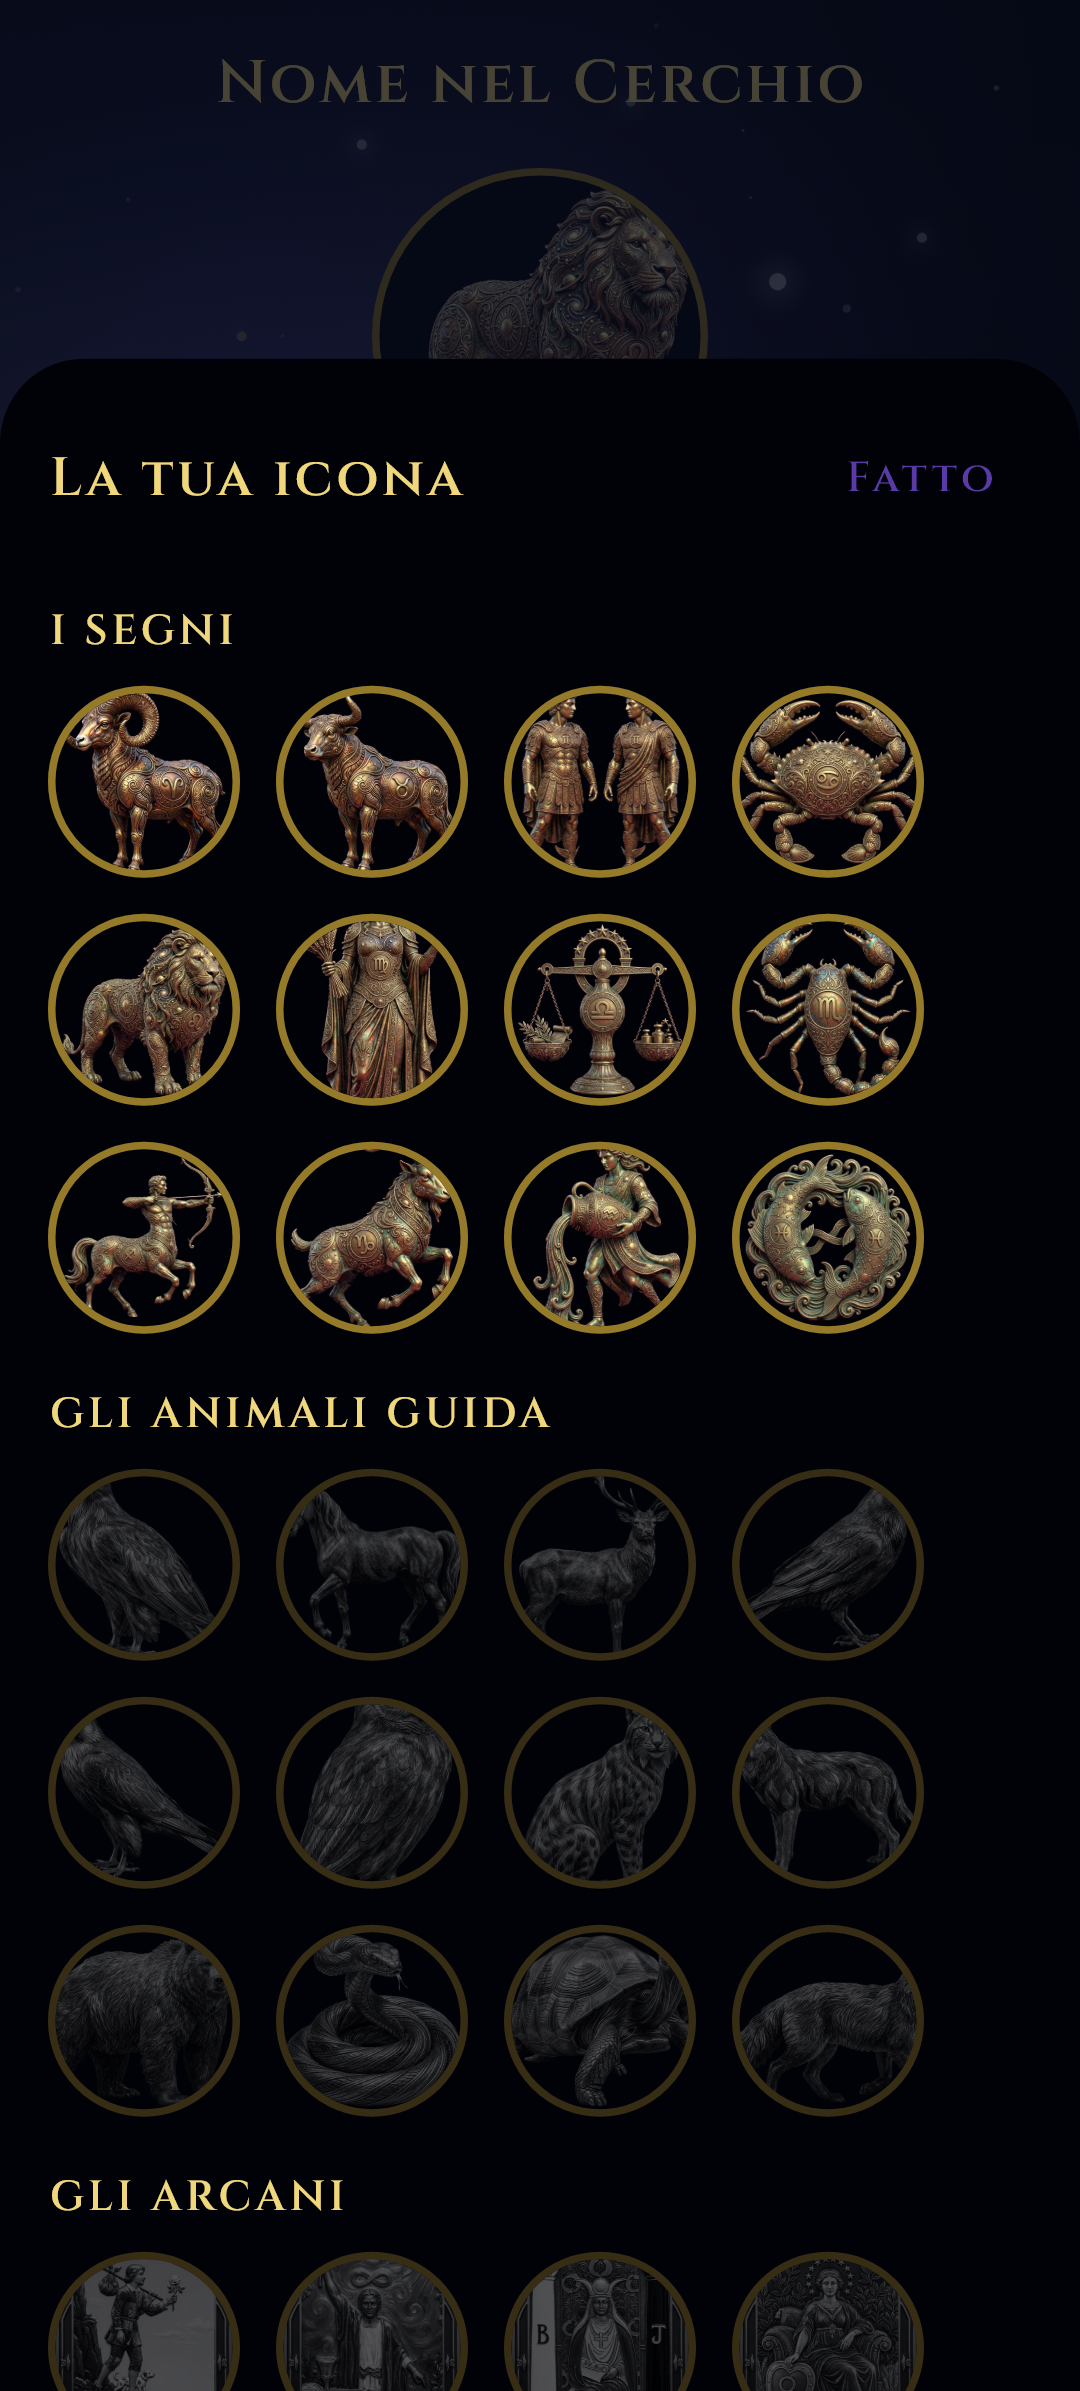
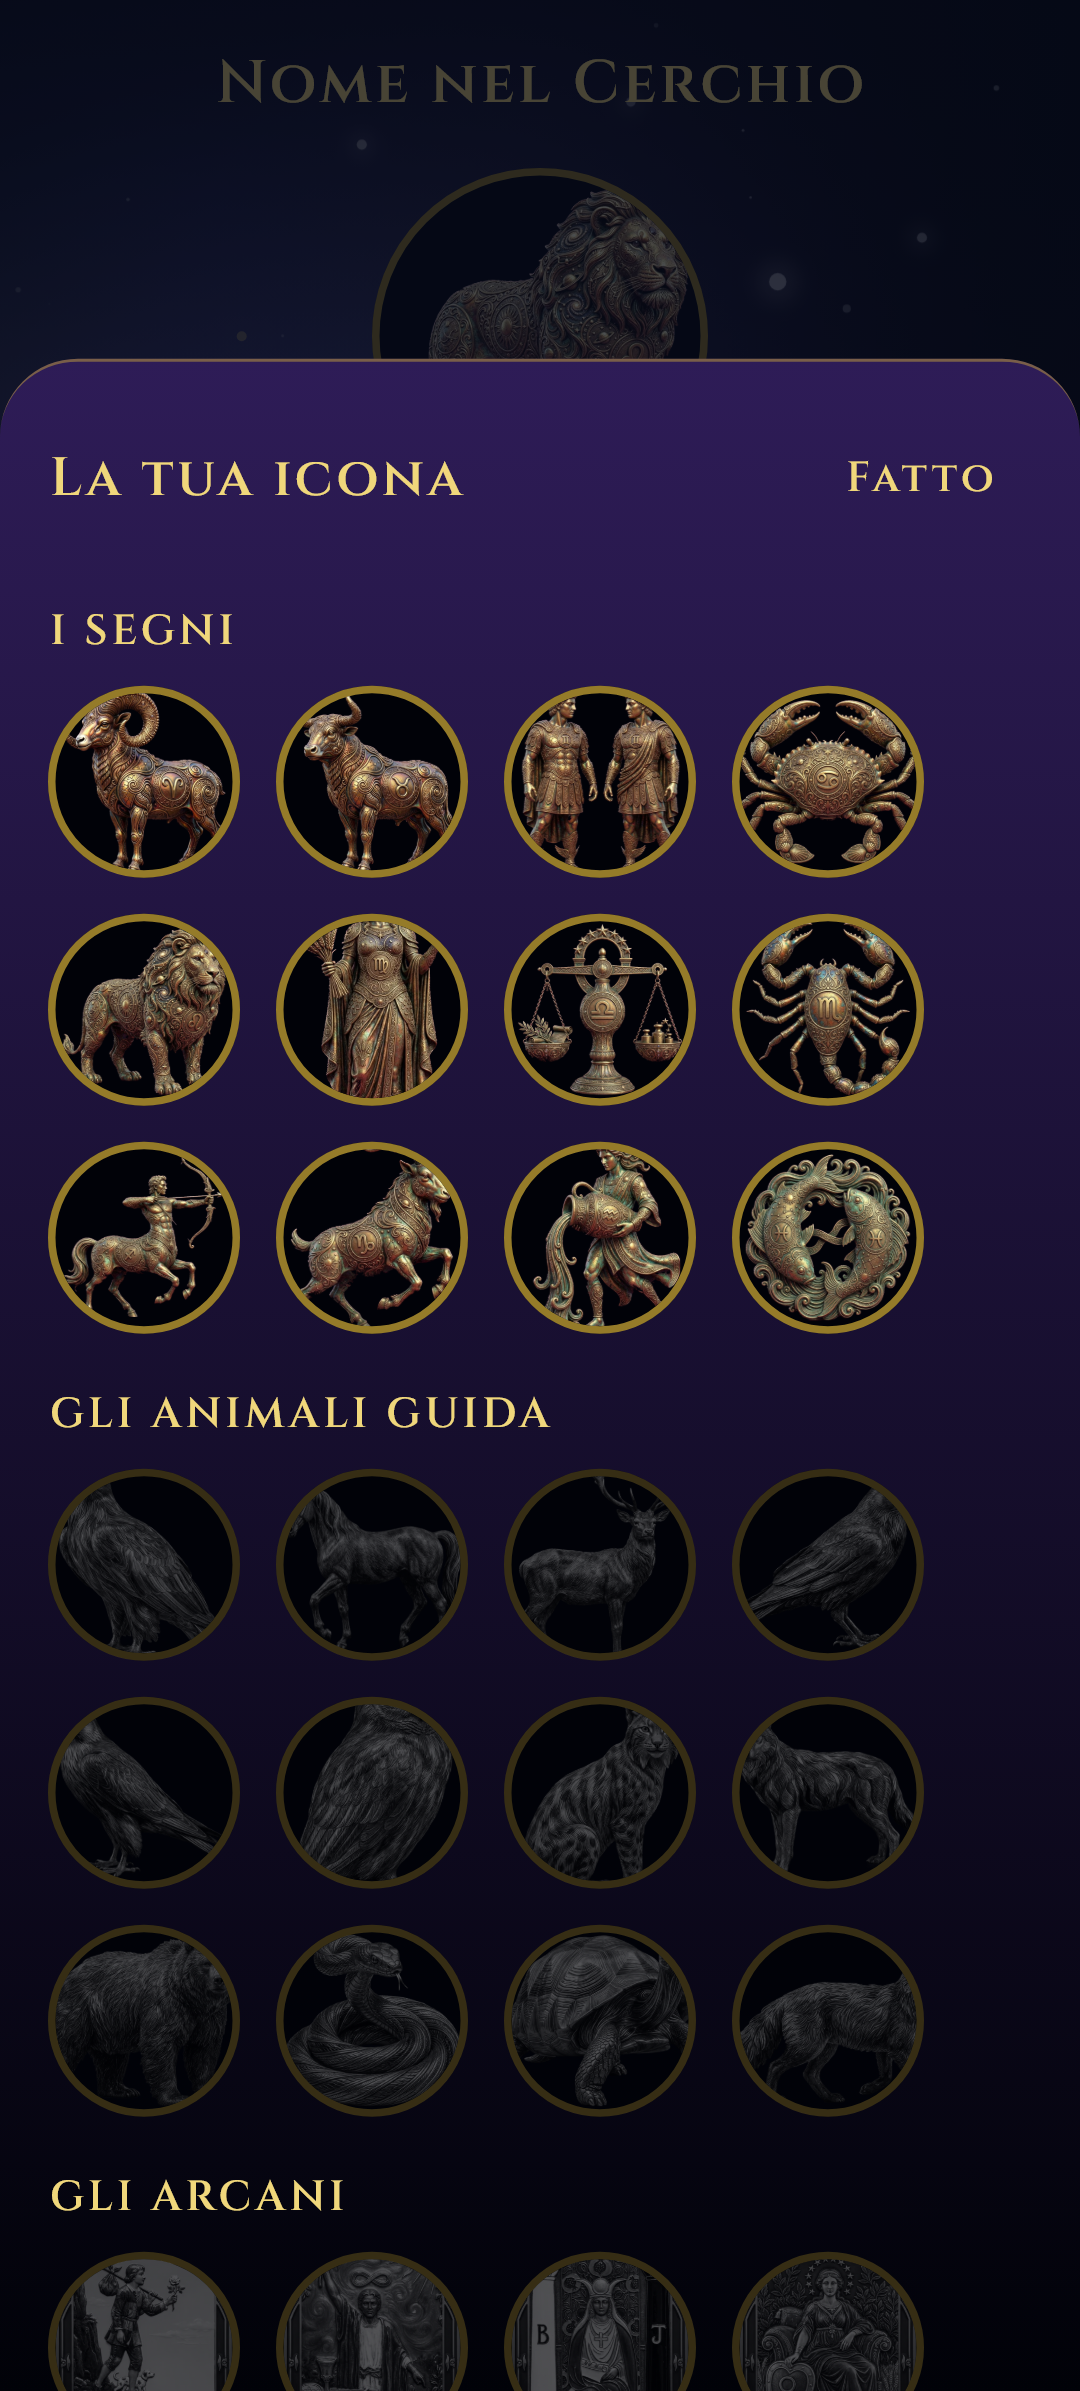
EY, i fogli del Cerchio col velo della tendina: le icone, la richiesta di legame e il regalo degli Eos erano neri e il Fatto delle icone viola (visto sul Realme con la 2296); fondoDelFoglio li veste col profondo del Maestro e i pulsanti d'oro. Il cancello: analyze era rosso dall'ordine EW (EW.04, il

diff --git a/lib/features/cerchio/scheda_dell_amico_screen.dart b/lib/features/cerchio/scheda_dell_amico_screen.dart
@@ -98,45 +98,48 @@ class SchedaDellAmicoScreen extends StatelessWidget {
     var quanti = 100.0;
     final scelto = await foglioDelCerchio<int>(
       context: context,
-      backgroundColor: MaestroPalette.neutral.deepest,
+      backgroundColor: Colors.transparent,
       builder: (c) => StatefulBuilder(
-        builder: (c, aggiorna) => Padding(
-          padding: const EdgeInsets.all(SpacingTokens.lg),
-          child: Column(
-            mainAxisSize: MainAxisSize.min,
-            children: [
-              Text('Regala Eos a ${amico.nome}',
-                  style: TypographyTokens.titoloScheda()
-                      .copyWith(color: MaestroPalette.neutral.goldSoft)),
-              const SizedBox(height: SpacingTokens.xs),
-              Text(
-                  'Da cento a cinquecento al giorno, solo dagli Eos comprati '
-                  'o dalla dote del piano: quelli guadagnati nel Cammino '
-                  'restano tuoi.',
-                  textAlign: TextAlign.center,
-                  style: TypographyTokens.didascalia()
-                      .copyWith(color: ColorTokens.textSecondary)),
-              Slider(
-                key: const Key('regala_quanti'),
-                min: 100,
-                max: 500,
-                divisions: 8,
-                value: quanti,
-                label: '${quanti.round()} Eos',
-                onChanged: (v) => aggiorna(() => quanti = v),
-              ),
-              FilledButton(
-                key: const Key('regala_conferma'),
-                onPressed: () => Navigator.of(c).pop(quanti.round()),
-                child: Text('Regala ${quanti.round()} Eos'),
-              ),
-              TextButton(
-                style: TextButton.styleFrom(
-                    foregroundColor: MaestroPalette.neutral.goldSoft),
-                onPressed: () => Navigator.of(c).pop(),
-                child: const Text('Fatto'),
-              ),
-            ],
+        builder: (c, aggiorna) => fondoDelFoglio(
+          c,
+          Padding(
+            padding: const EdgeInsets.all(SpacingTokens.lg),
+            child: Column(
+              mainAxisSize: MainAxisSize.min,
+              children: [
+                Text('Regala Eos a ${amico.nome}',
+                    style: TypographyTokens.titoloScheda()
+                        .copyWith(color: MaestroPalette.neutral.goldSoft)),
+                const SizedBox(height: SpacingTokens.xs),
+                Text(
+                    'Da cento a cinquecento al giorno, solo dagli Eos comprati '
+                    'o dalla dote del piano: quelli guadagnati nel Cammino '
+                    'restano tuoi.',
+                    textAlign: TextAlign.center,
+                    style: TypographyTokens.didascalia()
+                        .copyWith(color: ColorTokens.textSecondary)),
+                Slider(
+                  key: const Key('regala_quanti'),
+                  min: 100,
+                  max: 500,
+                  divisions: 8,
+                  value: quanti,
+                  label: '${quanti.round()} Eos',
+                  onChanged: (v) => aggiorna(() => quanti = v),
+                ),
+                FilledButton(
+                  key: const Key('regala_conferma'),
+                  onPressed: () => Navigator.of(c).pop(quanti.round()),
+                  child: Text('Regala ${quanti.round()} Eos'),
+                ),
+                TextButton(
+                  style: TextButton.styleFrom(
+                      foregroundColor: MaestroPalette.neutral.goldSoft),
+                  onPressed: () => Navigator.of(c).pop(),
+                  child: const Text('Fatto'),
+                ),
+              ],
+            ),
           ),
         ),
       ),

diff --git a/lib/features/cerchio/widgets/disegni_del_cerchio.dart b/lib/features/cerchio/widgets/disegni_del_cerchio.dart
@@ -10,6 +10,7 @@ import '../../../design_system/components/cosmos_background.dart';
 import '../../../design_system/theme/maestro_palette.dart';
 import '../../../design_system/theme/maestro_scope.dart';
 import '../../../design_system/tokens/color_tokens.dart';
+import '../../../design_system/tokens/spacing_tokens.dart';
 
 /// **I DISEGNI DEL CERCHIO SOCIALE, ordine EY.** Il livello visivo viene prima
 /// del testo (Linee Guida UX, sezione 2): ogni cosa nuova del motore sociale
@@ -527,6 +528,38 @@ class _PittoreDelDono extends CustomPainter {
 /// il nero pieno. Il fondatore il 4 ottobre 2026: "Tutte le anteprime che
 /// riguardano il cerchio hanno sfondo nero, anziché lo sfondo cosmico
 /// dell'app". Le schermate del Cerchio hanno la Scaffold trasparente.
+/// **I FOGLI DEL CERCHIO HANNO IL VELO DELLA TENDINA**, non il nero pieno:
+/// dal profondo viola del Maestro al suo fondo, con gli angoli in alto
+/// arrotondati e i pulsanti di testo d'oro. Visto sul Realme con la build
+/// 2296: il foglio delle icone era nero e il suo "Fatto" viola. Il foglio
+/// si apre col fondo trasparente e questo lo veste.
+Widget fondoDelFoglio(BuildContext context, Widget figlio,
+    {MaestroPalette palette = MaestroPalette.neutral}) {
+  final tema = Theme.of(context);
+  return DecoratedBox(
+    key: const Key('cerchio_fondo_del_foglio'),
+    decoration: BoxDecoration(
+      borderRadius: const BorderRadius.vertical(
+          top: Radius.circular(SpacingTokens.radiusLg)),
+      border:
+          Border(top: BorderSide(color: palette.gold.withValues(alpha: 0.45))),
+      gradient: LinearGradient(
+        begin: Alignment.topCenter,
+        end: Alignment.bottomCenter,
+        colors: [palette.surfaceElevated, palette.deepest],
+      ),
+    ),
+    child: Theme(
+      data: tema.copyWith(
+        textButtonTheme: TextButtonThemeData(
+          style: TextButton.styleFrom(foregroundColor: palette.goldSoft),
+        ),
+      ),
+      child: figlio,
+    ),
+  );
+}
+
 Widget conIPulsantiDOro(BuildContext context, Widget figlio, {int seme = 23}) {
   final tema = Theme.of(context);
   return CosmosBackground(

diff --git a/lib/features/cerchio/profilo_nel_cerchio_screen.dart b/lib/features/cerchio/profilo_nel_cerchio_screen.dart
@@ -105,10 +105,15 @@ class _ProfiloNelCerchioScreenState extends State<ProfiloNelCerchioScreen> {
     final scelta = await foglioDelCerchio<String>(
       context: context,
       isScrollControlled: true,
-      backgroundColor: MaestroPalette.neutral.deepest,
-      builder: (c) => _LaSceltaDellIcona(
-        incontrata: (i) => i.incontrata(
-            diario: diario, identita: identita, archetipiIncontrati: archetipi),
+      backgroundColor: Colors.transparent,
+      builder: (c) => fondoDelFoglio(
+        c,
+        _LaSceltaDellIcona(
+          incontrata: (i) => i.incontrata(
+              diario: diario,
+              identita: identita,
+              archetipiIncontrati: archetipi),
+        ),
       ),
     );
     if (scelta == null || !mounted) return;

diff --git a/lib/features/cerchio/la_richiesta_di_legame.dart b/lib/features/cerchio/la_richiesta_di_legame.dart
@@ -32,8 +32,9 @@ Future<void> mostraLaRichiestaDiLegame(
   }
   final accetta = await foglioDelCerchio<bool>(
     context: context,
-    backgroundColor: paletteDi(chi.maestro).deepest,
-    builder: (c) => _LaRichiesta(chi: chi),
+    backgroundColor: Colors.transparent,
+    builder: (c) => fondoDelFoglio(c, _LaRichiesta(chi: chi),
+        palette: paletteDi(chi.maestro)),
   );
   if (accetta != true) return;
   final esito = await sociale.chiediIlLegame(codice: codice);

diff --git a/tool/il_banco_del_costo_comune.dart b/tool/il_banco_del_costo_comune.dart
@@ -131,5 +131,8 @@ Future<void> preparaIlBanco() async {
     // I finti di Firebase hanno gia' l'app di base: va bene quella.
     if (e.code != 'duplicate-app') rethrow;
   }
+  // Il banco e' l'unico chiamante dichiarato fuori dalle prove: la porta e'
+  // scritta per lui (vedi `ClientConEtichetta.internoDeiBanchi`).
+  // ignore: invalid_use_of_visible_for_testing_member
   ClientConEtichetta.internoDeiBanchi = VersoVertex();
 }

diff --git a/tool/il_banco_del_costo.dart b/tool/il_banco_del_costo.dart
@@ -541,7 +541,7 @@ void main() {
     }
 
     if (_gira('titoli')) {
-      final t = TitoliDaGemini();
+      const t = TitoliDaGemini();
       for (var i = 0; i < _volte; i++) {
         await _unUso(
             'Il titolo della conversazione',
